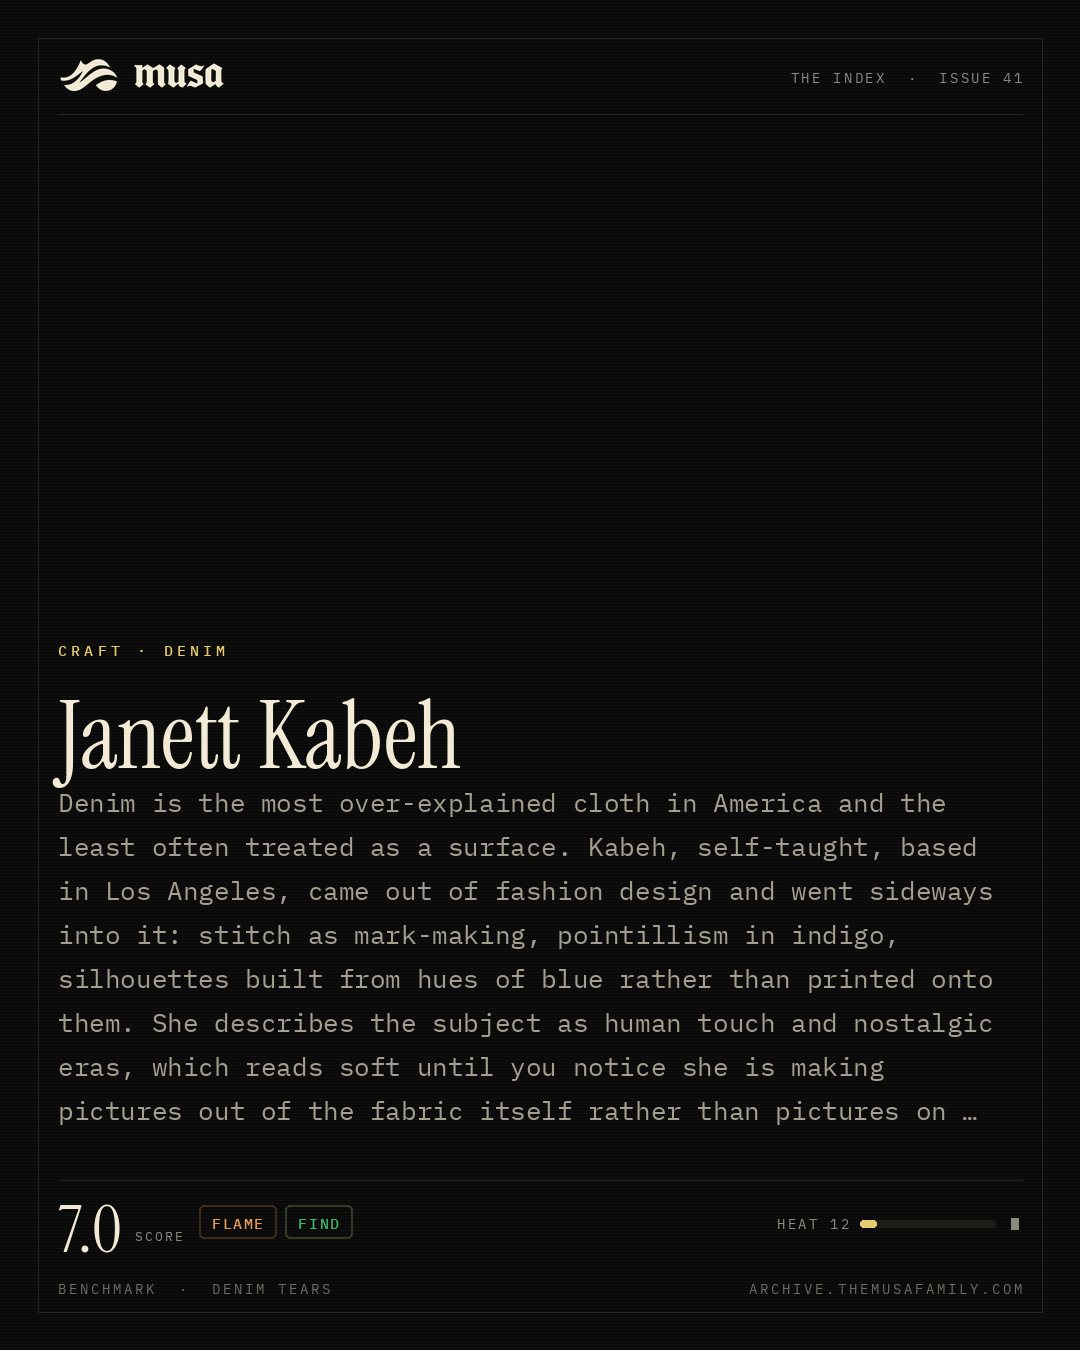
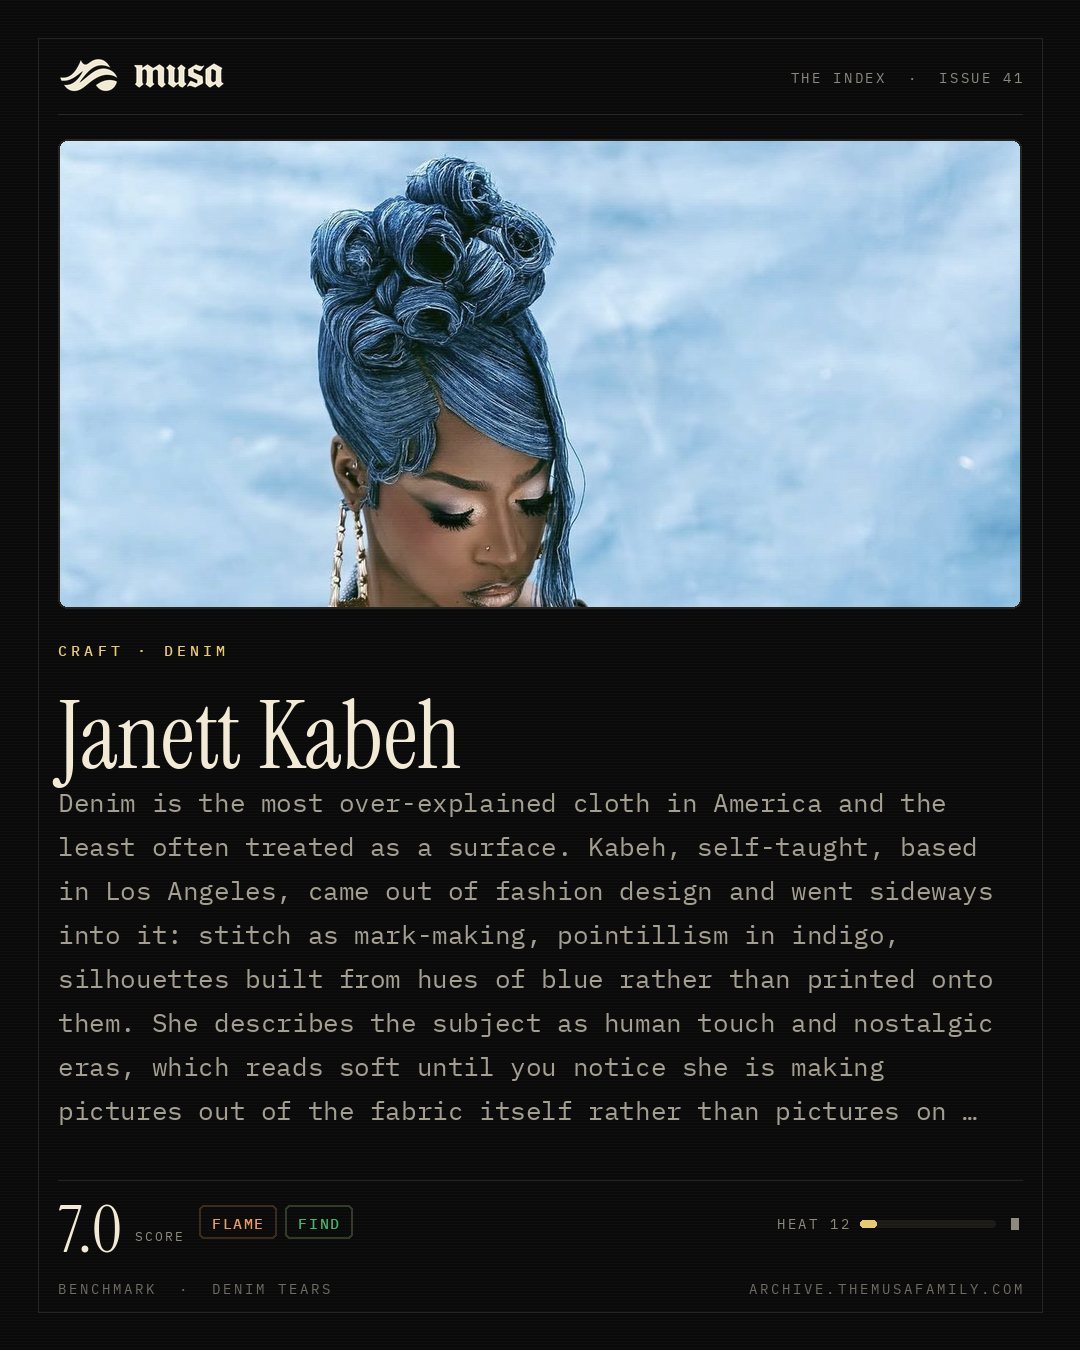
art: janett-kabeh — operator image; cards crop portrait sources from the top

diff --git a/i/janett-kabeh/index.html b/i/janett-kabeh/index.html
@@ -126,7 +126,7 @@ footer b{font-family:var(--mono);font-size:9px;color:#b8b09c;letter-spacing:.2em
 </header>
 <div class="eyebrow">ISSUE 41 &nbsp;·&nbsp; <span class="a">JUL 30 2026</span> &nbsp;·&nbsp; CRAFT · DENIM</div>
 <h1>Janett Kabeh</h1>
-<figure class="art"><img src="https://archive.themusafamily.com/img/musa-mark.png" alt="Janett Kabeh" loading="lazy" style="height:320px;object-fit:contain;background:#0a0a0a" onerror="this.onerror=null;this.src='https://archive.themusafamily.com/img/musa-mark.png';this.style.objectFit='contain';this.style.background='#0a0a0a'"></figure>
+<figure class="art"><img src="https://archive.themusafamily.com/img/entries/janett-kabeh.jpg" alt="Janett Kabeh" loading="lazy" onerror="this.onerror=null;this.src='https://archive.themusafamily.com/img/musa-mark.png';this.style.objectFit='contain';this.style.background='#0a0a0a'"></figure>
 <div class="read">Denim is the most over-explained cloth in America and the least often treated as a surface. Kabeh, self-taught, based in Los Angeles, came out of fashion design and went sideways into it: stitch as mark-making, pointillism in indigo, silhouettes built from hues of blue rather than printed onto them. She describes the subject as human touch and nostalgic eras, which reads soft until you notice she is making pictures out of the fabric itself rather than pictures on it. The public record is thin, and that is the honest part of this number: an Artsy listing, no dated survey, no institution behind her yet. Downtown Los Angeles opened an 11,000 square-foot Denim Institute Museum in June to enshrine 25 brands. The more interesting work is a few miles away, one person and a needle.</div>
 <div class="rail">
   <span class="sc">7.0<small>SCORE</small></span>

diff --git a/build/cards.py b/build/cards.py
@@ -62,18 +62,25 @@ def art_for(entry):
     try: return Image.open(p_).convert("RGB")
     except Exception: return None
 
-def cover(im,w,h):
-    """Centre-crop to fill exactly w x h, the way object-fit:cover does."""
+def cover(im,w,h,focus="center"):
+    """Crop to fill exactly w x h, the way object-fit:cover does.
+
+    `focus` sets the vertical anchor. The art band on a square card is ~2:1, so a
+    portrait source centre-cropped loses both ends — on a photograph that means the
+    head. "top" keeps the top of the frame, which is where faces and subjects sit."""
     sw,sh=im.size
     sc=max(w/float(sw), h/float(sh))
     nw,nh=max(w,int(sw*sc+.5)),max(h,int(sh*sc+.5))
     im=im.resize((nw,nh),Image.LANCZOS)
-    x=(nw-w)//2; y=(nh-h)//2
+    x=(nw-w)//2
+    if focus=="top":      y=0
+    elif focus=="bottom": y=nh-h
+    else:                 y=(nh-h)//2
     return im.crop((x,y,x+w,y+h))
 
-def place_art(im,d,tile_src,x,y,w,h,radius):
+def place_art(im,d,tile_src,x,y,w,h,radius,focus="center"):
     """Paste artwork with rounded corners and the house hairline border."""
-    tile=cover(tile_src,w,h)
+    tile=cover(tile_src,w,h,focus)
     mask=Image.new("L",(w,h),0)
     ImageDraw.Draw(mask).rounded_rectangle([0,0,w-1,h-1],radius=radius,fill=255)
     im.paste(tile,(x,y),mask)
@@ -177,7 +184,13 @@ def card(entry, issue, W, H, out, name_size, read_lines, read_size=19, anchor="c
             ax, aw = M, W-2*M
             ay, ah = ly+p(28), (y-p(34))-(ly+p(28))
             if ah >= p(240):
-                place_art(im,d,src,ax,ay,aw,ah,p(10))
+                # explicit art_focus wins; otherwise portrait sources anchor to the
+                # top, since that is where the subject is in almost every photograph.
+                foc=entry.get("art_focus")
+                if foc not in ("top","center","bottom"):
+                    sw_,sh_=src.size
+                    foc="top" if sh_/float(sw_) >= 1.2 else "center"
+                place_art(im,d,src,ax,ay,aw,ah,p(10),foc)
 
     tracked(d,(M,y),str(entry.get("domain_detail") or entry.get("domain","")).upper(),fd,AMBER,4.2)
     y+=p(38)
